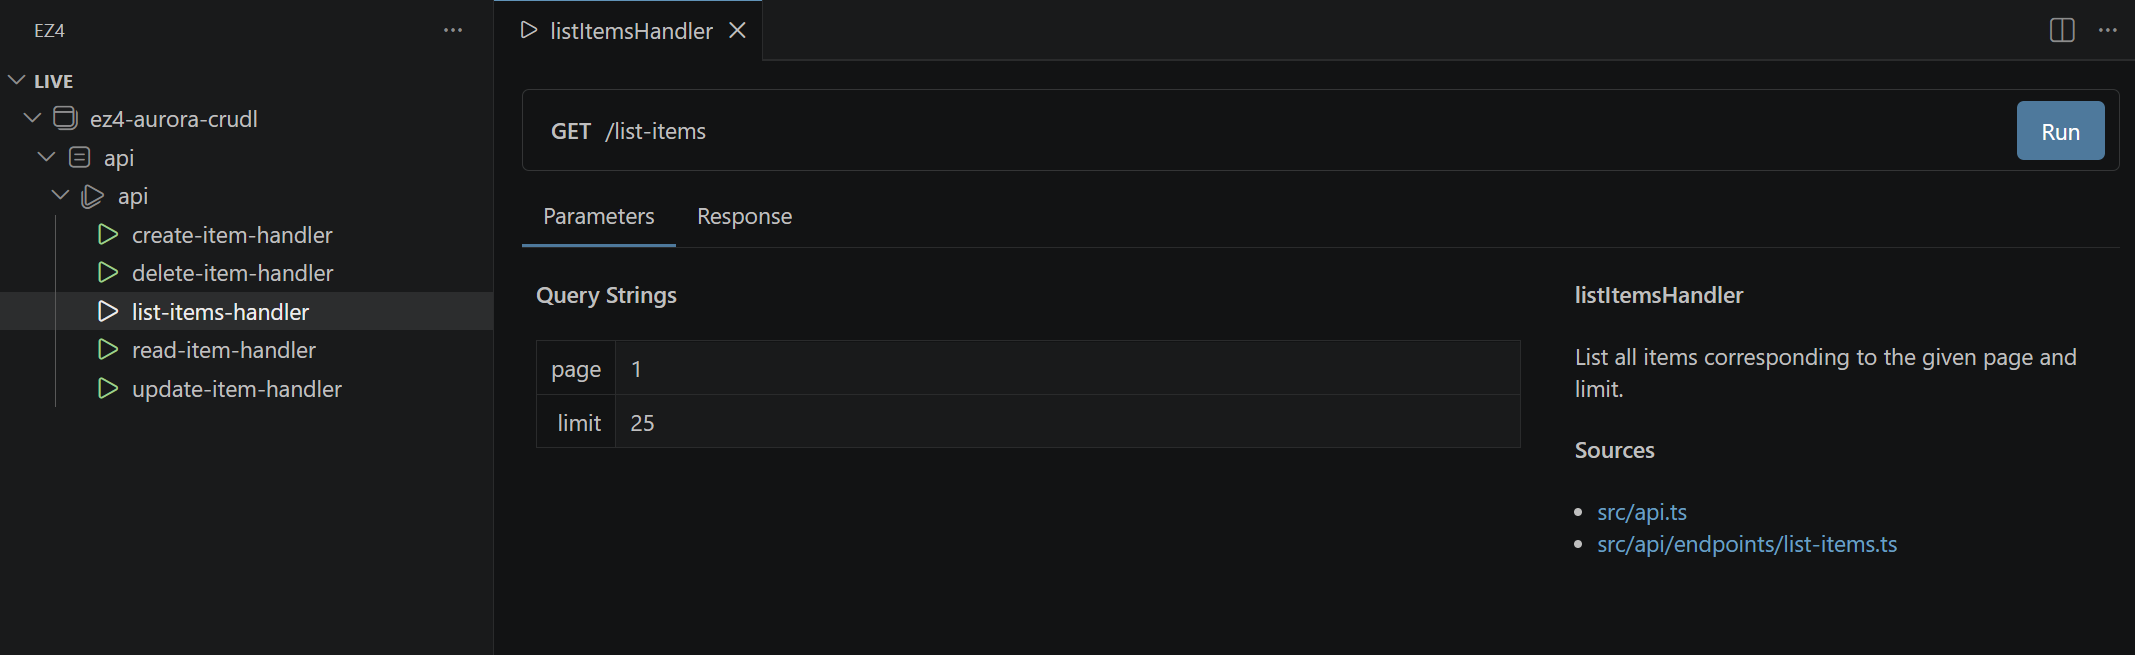
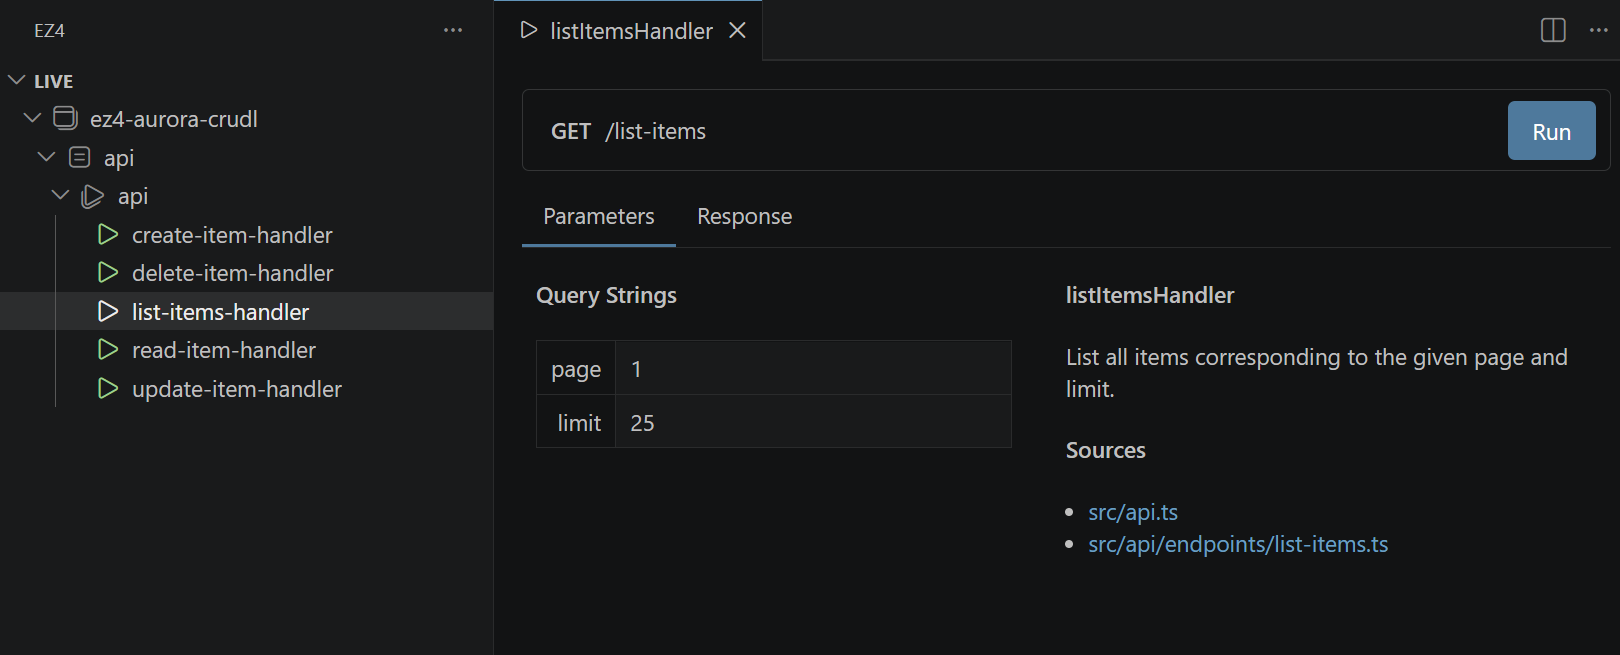
refactor: adjust extension readme

diff --git a/extensions/vscode/README.md b/extensions/vscode/README.md
@@ -16,21 +16,21 @@ Navigate your application's components with clarity.
 Fill in and adjust parameters effortlessly while testing your application.
 Designed for rapid iteration and smooth development cycles.
 
-![Parameters Tab](https://github.com/sbalmt/ez4/raw/main/extensions/vscode/assets/parameters-tab.png)
+![Interactive Parameters](https://github.com/sbalmt/ez4/raw/main/extensions/vscode/assets/parameters-tab.png)
 
 ### Request Editor
 
 Write JSON payloads with real **IntelliSense**, type‑aware suggestions, and inline documentation.
 No more guessing property names or searching for schemas.
 
-![Parameters Tab](https://github.com/sbalmt/ez4/raw/main/extensions/vscode/assets/request-tab.png)
+![Request Editor](https://github.com/sbalmt/ez4/raw/main/extensions/vscode/assets/request-tab.png)
 
 ### Response Viewer
 
 Inspect JSON responses enhanced with documentation pulled directly from your typings.
 Understand every property at a glance, perfect for debugging and API development.
 
-![Response Tab](https://github.com/sbalmt/ez4/raw/main/extensions/vscode/assets/response-tab.png)
+![Response Viewer](https://github.com/sbalmt/ez4/raw/main/extensions/vscode/assets/response-tab.png)
 
 ## License
 